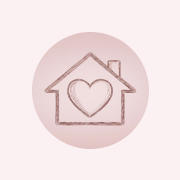
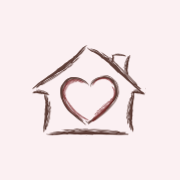
Handle stale sessions instead of announcing them; swap in havenlogo
/me rendered "Your profile row is missing. See CLAUDE.md section 7a." —
a doc reference shown to a tester, for a state that is not a data error.
It was the only user-visible internal reference in the app; every other
CLAUDE.md mention in src/ is a code comment.

Zero rows from the profile select with a live session is the section 9
stale token: the JWT outlives the row it names, because getSession()
never asks the server whether that user still exists. So clear it rather
than report it. clearStaleSession() and useRecoverStaleSession() live in
authRedirect.ts, next to useSignInRedirect, so one module owns every
route into /signin and SignInState is the single declared shape of what
that navigation carries.

scope: 'local', because there is no server-side session left to revoke.
Navigate first and sign out second: the other order publishes SIGNED_OUT
while RequireAuth is still mounted, so its redirect wins the race and
lands on /signin without the reason. /signin also suppresses its own
"already signed in, go to dest" effect on that reason, or it would
bounce straight back into the screen that rejected the session.

The other two cases were already correct and are unchanged: SessionState
has carried three states since the OTP migration, so RequireAuth already
shows the loading state while the session resolves and already redirects
with state.from when there is none.

Both screens that read your own profile are covered, differently. /me
[…]

Changed region(s): [[0.1667, 0.1667, 0.8333, 0.8333]]

diff --git a/src/routes/SignIn.tsx b/src/routes/SignIn.tsx
@@ -1,9 +1,10 @@
 import { useEffect, useRef, useState, type FormEvent, type KeyboardEvent } from 'react';
-import { Link, useLocation, useNavigate, type Location } from 'react-router-dom';
+import { Link, useLocation, useNavigate } from 'react-router-dom';
 import { supabase } from '../lib/supabase';
 import { useSession } from '../lib/session';
 import { authErrorMessage, retryAfterSeconds } from '../lib/authErrors';
 import { hasPassword, signInPasswordErrorMessage } from '../lib/password';
+import type { SignInState } from '../lib/authRedirect';
 import { SetPasswordForm } from '../components/SetPasswordForm';
 import { Loading } from '../components/States';
 
@@ -33,7 +34,11 @@ export default function SignIn() {
 
   // RequireAuth and useSignInRedirect both stash a full router Location under
   // state.from. Rebuild the whole path so a query string or hash survives.
-  const from = (location.state as { from?: Location } | null)?.from;
+  const state = location.state as SignInState | null;
+  const from = state?.from;
+  // Set only when we sent someone here after clearing a session whose user no
+  // longer existed.
+  const sessionExpired = state?.reason === 'session-expired';
   const rawDest = from ? `${from.pathname}${from.search ?? ''}${from.hash ?? ''}` : '/';
   // Guard against bouncing back here and looping.
   const dest = rawDest.startsWith('/signin') ? '/' : rawDest;
@@ -58,13 +63,15 @@ export default function SignIn() {
   // onAuthStateChange can publish the new session before the handler that
   // chose the step has run.
   useEffect(() => {
-    if (loading || !userId || selfInitiated.current) return;
+    if (loading || !userId || selfInitiated.current || sessionExpired) return;
     navigate(dest, { replace: true });
-  }, [loading, userId, navigate, dest]);
+  }, [loading, userId, navigate, dest, sessionExpired]);
 
   // Placeholder for the frame between the effect above deciding to leave and
   // the navigation landing. Purely cosmetic — it makes no routing decision.
-  if (!loading && userId && step === 'email') return <Loading label="Signing you in…" />;
+  if (!loading && userId && step === 'email' && !sessionExpired) {
+    return <Loading label="Signing you in…" />;
+  }
 
   const trimmedEmail = email.trim();
   const emailLooksValid = /^\S+@\S+\.\S+$/.test(trimmedEmail);
@@ -211,10 +218,16 @@ export default function SignIn() {
       {step === 'email' && (
         <form className="composer" onSubmit={handleEmailSubmit}>
           <h1 className="detail-title">Sign in</h1>
-          <p className="field-hint signin-intro">
-            Reading needs no account. Posting, replying, and liking do. A code by email always
-            works — a password is optional, and only if you've made one.
-          </p>
+          {sessionExpired ? (
+            <p className="form-notice" role="status">
+              Please sign in again.
+            </p>
+          ) : (
+            <p className="field-hint signin-intro">
+              Reading needs no account. Posting, replying, and liking do. A code by email
+              always works — a password is optional, and only if you've made one.
+            </p>
+          )}
 
           <div className="field">
             <label className="field-label" htmlFor="signin-email">

diff --git a/src/routes/Profile.tsx b/src/routes/Profile.tsx
@@ -1,4 +1,4 @@
-import { useEffect, useState, type FormEvent } from 'react';
+import { useEffect, useRef, useState, type FormEvent } from 'react';
 import { Link, useNavigate } from 'react-router-dom';
 import { supabase } from '../lib/supabase';
 import { useSession } from '../lib/session';
@@ -11,6 +11,7 @@ import {
   profileErrorMessage,
 } from '../lib/profile';
 import { relativeTime } from '../lib/time';
+import { useRecoverStaleSession } from '../lib/authRedirect';
 import { EmptyState, ErrorState, Loading } from '../components/States';
 import { SetPasswordForm } from '../components/SetPasswordForm';
 
@@ -28,6 +29,9 @@ type MyPost = {
 export default function Profile() {
   const { userId, hasPassword } = useSession();
   const navigate = useNavigate();
+  const recoverStaleSession = useRecoverStaleSession();
+  const [staleSession, setStaleSession] = useState(false);
+  const recovering = useRef(false);
   const [signingOut, setSigningOut] = useState(false);
   const [editingPassword, setEditingPassword] = useState(false);
   const [passwordSaved, setPasswordSaved] = useState(false);
@@ -70,9 +74,12 @@ export default function Profile() {
         return;
       }
       if (!profileRes.data) {
-        // auth.users row with no profiles row — the handle_new_user trigger
-        // didn't fire. See the ordering trap in section 7a.
-        setLoadError('Your profile row is missing. See CLAUDE.md section 7a.');
+        // A live session naming a user who no longer exists. The JWT outlives
+        // the row it points at, because getSession() never asks the server, so
+        // this reads as "signed in" right up until something touches
+        // auth.uid(). It is not a data error and there is nothing to show the
+        // person about it — clear the session and start over.
+        setStaleSession(true);
         return;
       }
 
@@ -88,6 +95,12 @@ export default function Profile() {
       cancelled = true;
     };
   }, [userId]);
+
+  useEffect(() => {
+    if (!staleSession || recovering.current) return;
+    recovering.current = true;
+    void recoverStaleSession();
+  }, [staleSession, recoverStaleSession]);
 
   // Count the trimmed values — that is what gets stored, and what the CHECK
   // constraints are evaluated against. charLength counts code points, matching
@@ -155,6 +168,9 @@ export default function Profile() {
     setJustSaved(true);
   }
 
+  // Never an error screen for this: it resolves itself, and the redirect is
+  // already on its way.
+  if (staleSession) return <Loading label="Signing you out…" />;
   if (loadError) return <ErrorState title="Couldn't load your profile" message={loadError} />;
   if (!saved) return <Loading label="Loading your profile…" />;
 

diff --git a/src/lib/authRedirect.ts b/src/lib/authRedirect.ts
@@ -1,5 +1,16 @@
 import { useCallback } from 'react';
-import { useLocation, useNavigate } from 'react-router-dom';
+import { useLocation, useNavigate, type Location } from 'react-router-dom';
+import { supabase } from './supabase';
+
+/** Why /signin was reached, when it wasn't simply chosen. */
+export type SignInReason = 'session-expired';
+
+/**
+ * The router state every route into /signin carries. RequireAuth,
+ * useSignInRedirect and useRecoverStaleSession all write this shape, and
+ * SignIn reads it — one contract, declared once.
+ */
+export type SignInState = { from?: Location; reason?: SignInReason };
 
 /**
  * Sends a signed-out visitor to /signin, carrying where they were so they can
@@ -11,6 +22,46 @@ export function useSignInRedirect(): () => void {
   const location = useLocation();
 
   return useCallback(() => {
-    navigate('/signin', { state: { from: location } });
+    navigate('/signin', { state: { from: location } satisfies SignInState });
+  }, [navigate, location]);
+}
+
+/**
+ * Drop a session whose user no longer exists.
+ *
+ * `getSession()` reads the JWT out of localStorage and never asks the server
+ * whether that user is still there, so a deleted account keeps presenting as
+ * signed in until the token expires. Every read scoped to `auth.uid()` then
+ * comes back empty and every write fails on the foreign key — which looks like
+ * a data fault and isn't one.
+ *
+ * **Local scope on purpose.** There is no server-side session left to revoke,
+ * so a global sign-out would only fail on the way out; the token in this
+ * browser is the entire thing that needs clearing.
+ */
+export async function clearStaleSession(): Promise<void> {
+  await supabase.auth.signOut({ scope: 'local' });
+}
+
+/**
+ * Clear a stale session *and* leave, for screens that cannot function without
+ * a profile. Screens that merely lose an affordance — post detail keeps
+ * rendering the post — should call `clearStaleSession()` on its own and stay
+ * where they are.
+ */
+export function useRecoverStaleSession(): () => Promise<void> {
+  const navigate = useNavigate();
+  const location = useLocation();
+
+  return useCallback(async () => {
+    // Navigate first, then sign out. The other order publishes SIGNED_OUT
+    // while RequireAuth is still mounted, so *its* redirect wins the race and
+    // lands on /signin without the reason — leaving this navigation to fire
+    // from an unmounted component.
+    navigate('/signin', {
+      state: { from: location, reason: 'session-expired' } satisfies SignInState,
+      replace: true,
+    });
+    await clearStaleSession();
   }, [navigate, location]);
 }

diff --git a/src/routes/PostDetail.tsx b/src/routes/PostDetail.tsx
@@ -7,7 +7,7 @@ import { author, type Author, type Comment, type FeedPost } from '../lib/types';
 import { Byline } from '../components/Byline';
 import { LikeButton } from '../components/LikeButton';
 import { CommentComposer, LockedComposer } from '../components/CommentComposer';
-import { useSignInRedirect } from '../lib/authRedirect';
+import { clearStaleSession, useSignInRedirect } from '../lib/authRedirect';
 import { EmptyState, ErrorState, Loading } from '../components/States';
 
 const COMMENT_SELECT = 'id, parent_id, body, created_at, profiles(display_name, avatar_emoji)';
@@ -78,6 +78,13 @@ export default function PostDetail() {
       setComments((commentRes.data ?? []) as unknown as LocalComment[]);
       setLiked((likeRes?.data?.length ?? 0) > 0);
       setMe((meRes?.data as Author | null) ?? null);
+
+      // Same stale session as on /me, reached from a screen that still works
+      // without one. profiles_select is `using (true)`, so zero rows here means
+      // the row is genuinely gone, not hidden. Clearing it flips the like
+      // button and reply composer into their signed-out affordances, which is
+      // the honest state — a write would fail on the foreign key.
+      if (userId && meRes && !meRes.error && !meRes.data) void clearStaleSession();
     })();
 
     return () => {

diff --git a/src/components/RequireAuth.tsx b/src/components/RequireAuth.tsx
@@ -1,6 +1,7 @@
 import type { ReactNode } from 'react';
 import { Navigate, useLocation } from 'react-router-dom';
 import { useSession } from '../lib/session';
+import type { SignInState } from '../lib/authRedirect';
 import { Loading } from './States';
 
 /**
@@ -15,7 +16,9 @@ export function RequireAuth({ children }: { children: ReactNode }) {
   // signed-in user who deep-linked straight to /me.
   if (loading) return <Loading label="Checking your session…" />;
 
-  if (!userId) return <Navigate to="/signin" state={{ from: location }} replace />;
+  if (!userId) {
+    return <Navigate to="/signin" state={{ from: location } satisfies SignInState} replace />;
+  }
 
   return <>{children}</>;
 }

diff --git a/src/App.tsx b/src/App.tsx
@@ -19,7 +19,7 @@ export default function App() {
             <Link className="app-title" to="/">
               {/* alt="" on purpose — the adjacent text already names the app,
                   so announcing it twice is noise for a screen reader. */}
-              <img className="app-logo" src="/logoCircle.svg" alt="" />
+              <img className="app-logo" src="/havenlogo.svg" alt="" />
               Haven
             </Link>
             <Link className="btn-quiet nav-link" to="/me">

diff --git a/index.html b/index.html
@@ -2,7 +2,7 @@
 <html lang="en">
   <head>
     <meta charset="UTF-8" />
-    <link rel="icon" type="image/svg+xml" href="/logoCircle.svg" />
+    <link rel="icon" type="image/svg+xml" href="/havenlogo.svg" />
     <meta name="viewport" content="width=device-width, initial-scale=1.0, viewport-fit=cover" />
     <title>Haven</title>
 

diff --git a/CLAUDE.md b/CLAUDE.md
@@ -199,7 +199,7 @@ Row four is why the counters use `charLength()` from `src/lib/text.ts` and not `
 
 **`avatar_emoji` has no length constraint at all** — it is plain `text not null default '🙂'`. So it is edited through a fixed grid of choices rather than a text field, which keeps the column sane without pretending a counter could help: emoji are frequently several code points (flags are two, ZWJ sequences like 👩🚀 are three or more), so "one character" is not a rule counting can express. Whatever is already stored keeps a slot in the grid even if it isn't one of the presets, so a value set by hand in the SQL editor survives an edit.
 
-**The profile screen is where a missing `profiles` row surfaces first.** If the `handle_new_user` trigger ever fails to fire, `/me` shows "Your profile row is missing" and points at 7a, rather than rendering an empty form that silently writes nothing.
+~~**The profile screen is where a missing `profiles` row surfaces first.** If the `handle_new_user` trigger ever fails to fire, `/me` shows "Your profile row is missing" and points at 7a, rather than rendering an empty form that silently writes nothing.~~ **Superseded Sep 1.** That copy named an internal doc section to a user and treated a stale session as a data error. `/me` now clears the session and sends the person to `/signin` — see section 15. A missing row still can't render an empty form that writes nothing; it just resolves itself now instead of announcing itself.
 
 ---
 
@@ -728,7 +728,7 @@ Still worth confirming on device, because it changes what testers should be told
 
 **RLS is the classic timeline-killer.** Get the policies right at the start. Debugging "why does my insert silently return zero rows" at midnight is miserable — that symptom is almost always a failing RLS policy, and it has no error message to work from.
 
-**A stale session token survives a user deletion.** `getSession()` doesn't check the server. See 6c — this is a self-inflicted-only condition, but it presents as a mysterious foreign-key failure.
+**A stale session token survives a user deletion.** `getSession()` doesn't check the server. See 6c — this is a self-inflicted-only condition, but it presents as a mysterious foreign-key failure. **Handled as of Sep 1** on the two screens that read your own profile: they clear the session rather than reporting an error. Section 15, including the one place it is still *not* caught.
 
 **If `auth.users` has a row but `profiles` is empty**, the `handle_new_user` trigger didn't fire. Stop and fix it, because every post and comment insert will fail on the foreign key. See the ordering trap in 7a.
 
@@ -1032,3 +1032,89 @@ nothing. Clear it with:
 ```sql
 delete from auth.users where id = '8da1f097-ef7a-43ce-9b9a-e088606bfd75';
 ```
+
+---
+
+## 15. Stale sessions, and no internal references in copy (Sep 1)
+
+### The rule
+
+**No string a user can read may name a file, a section, a table, a policy, or
+an error code.** `/me` used to render *"Your profile row is missing. See
+CLAUDE.md section 7a."* — a doc reference, to a tester, in a women's health app.
+
+That was the **only** such string in the app; every other `CLAUDE.md` mention
+in `src/` is a code comment, which is where they belong. Worth re-checking with
+a grep whenever error copy is added, because the failure mode is quiet: it
+reads as fine to whoever wrote it.
+
+### Three states, not two
+
+`SessionState` already carried `{ userId, loading, hasPassword }`, so "we
+haven't looked yet" was already distinct from "signed out" — see section 13's
+second trap, which is why. **No change was needed there**, and `RequireAuth`
+already resolved the first two of the three cases:
+
+| Case | Handled by | Behaviour |
+|---|---|---|
+| Session still resolving | `RequireAuth` | Loading. Never an error. |
+| No session | `RequireAuth` | `/signin`, carrying `state.from`. |
+| Session, but the profile select returns zero rows | **new, section 15** | Clear the session, then `/signin`. |
+
+The third case is not a data error. It is the section 9 stale token: the JWT
+outlives the row it names, because `getSession()` never asks the server whether
+that user still exists. Everything scoped to `auth.uid()` then returns nothing
+and every write fails on the foreign key.
+
+`clearStaleSession()` and `useRecoverStaleSession()` live in
+`src/lib/authRedirect.ts`, next to `useSignInRedirect` — one module owns every
+route into `/signin`, and `SignInState` is the single declared shape of what
+that navigation carries.
+
+**`scope: 'local'` specifically.** There is no server-side session left to
+revoke; the token in this browser is the whole problem.
+
+**Navigate first, sign out second.** The other order publishes `SIGNED_OUT`
+while `RequireAuth` is still mounted, so its redirect wins the race and lands
+on `/signin` without the reason — leaving the real navigation to fire from an
+unmounted component. `/signin` also suppresses its own "you're already signed
+in, go to `dest`" effect when `reason === 'session-expired'`, or it would bounce
+straight back into the screen that just rejected the session.
+
+The copy is *"Please sign in again."* and nothing more.
+
+### Which screens read your own profile
+
+Both, and they want different things:
+
+| Screen | Guarded? | On zero rows |
+|---|---|---|
+| `/me` | `RequireAuth` | Can't function — clear and redirect |
+| `/p/:id` | **no, and correctly not** — reading is open | Stays put, clears the session; the like button and reply composer fall back to their signed-out affordances |
+
+Redirecting off a post someone is reading would be worse than the bug. Clearing
+the session there is still right, because a write from that session would fail
+on the foreign key.
+
+**Still not caught, and worth knowing:** the feed reads `likes`, not `profiles`,
+so a stale session there is invisible until a like insert fails. Catching it
+everywhere means verifying the profile once in `SessionProvider` at boot — one
+extra query per signed-in load. Not done, because it wasn't asked for and the
+cost is a real one on a phone.
+
+### Logo
+
+`logoCircle.svg` → `havenlogo.svg` everywhere: the header `<img>`, the
+`rel="icon"` link in `index.html`, and `SOURCE` in `scripts/make-icons.mjs`.
+No references to the old file remain.
+
+`npm run` isn't wired to it; regenerate with `node scripts/make-icons.mjs`.
+Re-run and re-verified: 180/192/512 at the same paths, `#fbf0f2`, **3 channels
+and `hasAlpha: false`**, square corners.
+
+**One thing changed shape.** `logoCircle.svg` was 184×184; `havenlogo.svg` is
+**32×25**, and both wrap an embedded bitmap rather than being true vectors.
+`LOGO_SCALE` is a fraction of canvas *width*, so the mark now occupies 65% of
+the width but only ~51% of the height — it sits smaller in the square than the
+circle did. Left at 0.65 deliberately, since changing it wasn't asked for. If
+the icon wants to read larger, that constant is the dial.
